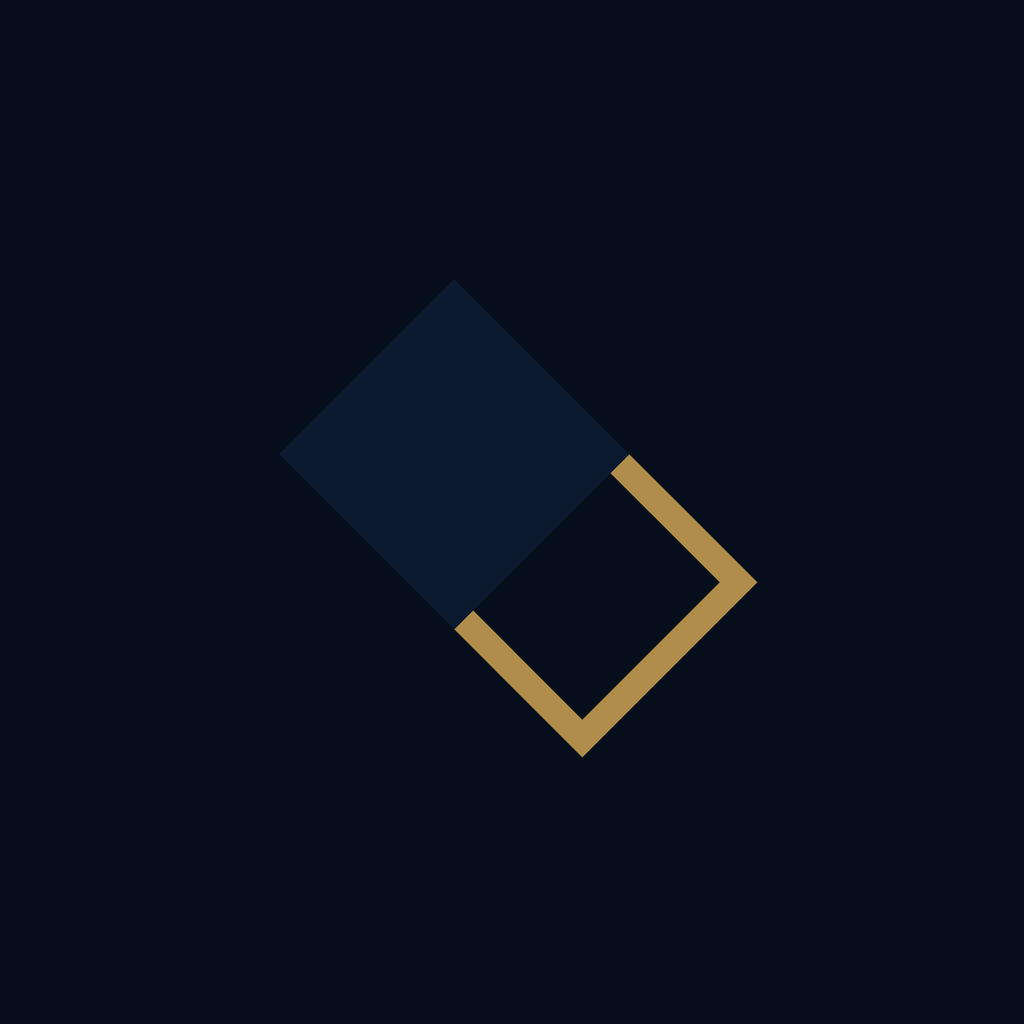
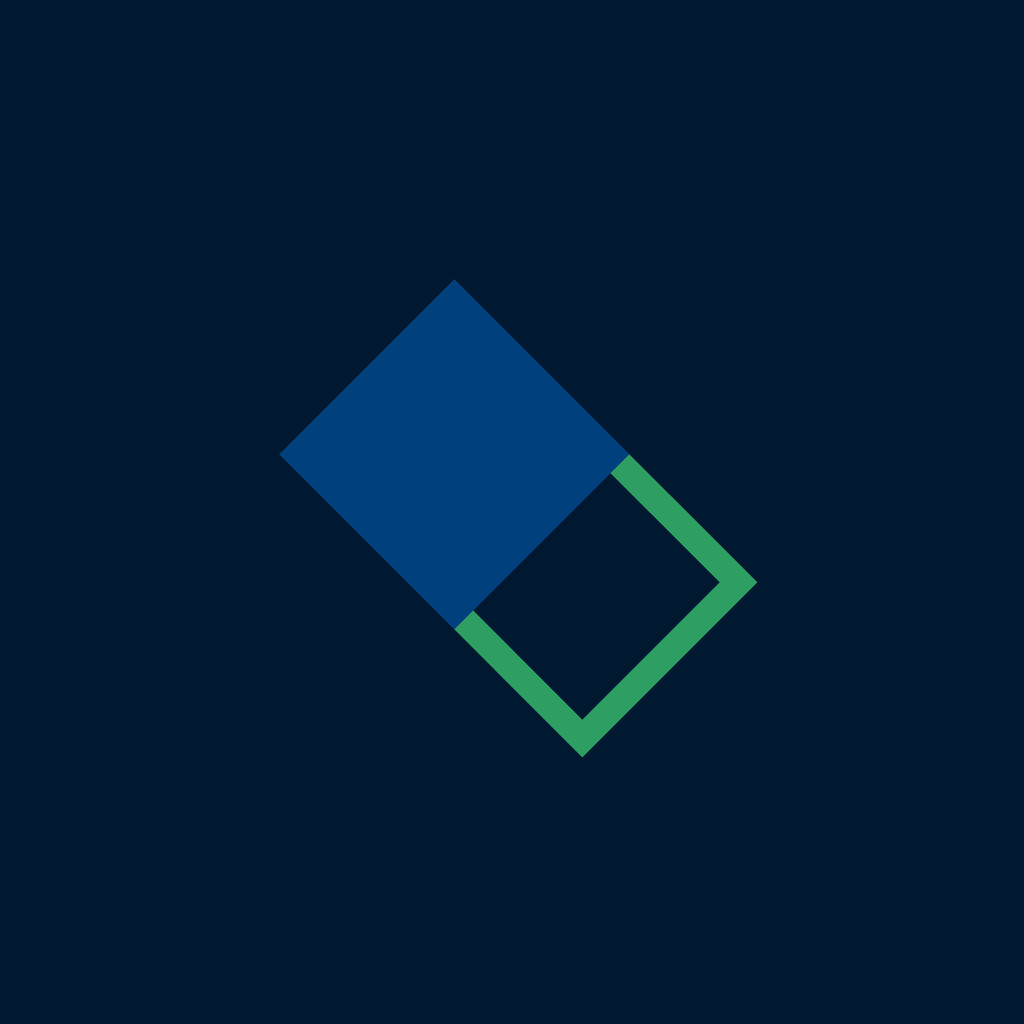
Rebrand to FundCo/CeF blue+green, drop equity %, Governance -> About Us
Per MD's review feedback:
- Recolor theme from navy/gold to a blue (FundCo) + green (Clean
  Energy Fund) combination -- mark shape unchanged, only the palette
  and all derived assets (favicon, apple-icon, OG image, logo lockups)
- Remove the 92.8% equity-stake figure from every public-facing
  instance (homepage, portfolio, about page, ticker) in favor of
  "majority equity stake" / "majority shareholder" language
- Rename Governance -> About Us (route, nav, footer, sitemap, and all
  internal cross-links)
- Replace "real estate infrastructure" with "sustainable
  infrastructure" everywhere it appeared
- Drop the "long-term value creation across West Africa rather than
  short-term trading gains" clause and the "Real Estate
  Infrastructure" pillar's West Africa claim
- Increase the header/footer logo size

Changed region(s): [[0.2812, 0.2812, 0.75, 0.75]]

diff --git a/src/app/page.tsx b/src/app/page.tsx
@@ -13,9 +13,9 @@ const PILLARS = [
   },
   {
     tag: "02",
-    title: "Real Estate Infrastructure",
+    title: "Sustainable Infrastructure",
     detail:
-      "Long-horizon exposure to real estate and infrastructure assets underpinning Nigeria's and West Africa's growth.",
+      "Long-horizon exposure to sustainable infrastructure assets underpinning Nigeria's growth.",
   },
   {
     tag: "03",
@@ -42,7 +42,7 @@ export default function Home() {
           <p className="mt-7 max-w-xl text-white/80 text-base sm:text-lg leading-relaxed">
             OneCap Investment Limited is a private investment and holding
             company deploying proprietary capital into high-impact
-            alternative assets, real estate infrastructure, and transition
+            alternative assets, sustainable infrastructure, and transition
             energy across Sub-Saharan Africa.
           </p>
           <div className="mt-10 flex flex-wrap gap-4">
@@ -73,9 +73,7 @@ export default function Home() {
           <p className="mt-4 text-text-secondary leading-relaxed">
             OneCap is a private, closely held investment and holding company
             incorporated in Nigeria. We deploy proprietary capital directly
-            and through majority-owned operating platforms, with a mandate
-            centred on long-term value creation across West Africa rather
-            than short-term trading gains.
+            and through majority-owned operating platforms.
           </p>
         </ScrollReveal>
 
@@ -107,7 +105,7 @@ export default function Home() {
               Major Institutional Shareholder in FundCo Capital Managers Limited
             </h2>
             <p className="text-white/75 leading-relaxed mb-6">
-              OneCap holds a 92.8% equity stake in FundCo Capital Managers
+              OneCap holds a majority equity stake in FundCo Capital Managers
               Limited, a Nigerian investment manager whose mandate is aligned
               with green and infrastructure-focused strategies. FundCo
               structures and manages regulated investment vehicles, including
@@ -130,9 +128,9 @@ export default function Home() {
               height={200}
               className="h-16 w-auto mb-6 object-contain"
             />
-            <p className="text-5xl font-bold text-brand mb-2">92.8%</p>
+            <p className="text-3xl sm:text-4xl font-bold text-brand mb-2">Majority Stake</p>
             <p className="text-sm text-white/60 uppercase tracking-wide">
-              Equity Stake Held by OneCap
+              Equity Held by OneCap
             </p>
           </div>
         </ScrollReveal>
@@ -152,10 +150,10 @@ export default function Home() {
             Companies and Allied Matters Act, 2020.
           </p>
           <Link
-            href="/governance"
+            href="/about-us"
             className="inline-block rounded-full border border-navy px-6 py-3 text-sm font-semibold text-navy hover:bg-navy hover:text-white transition-colors"
           >
-            Read Our Governance & Mandate
+            About Us & Mandate
           </Link>
         </ScrollReveal>
       </section>

diff --git a/src/app/about-us/page.tsx b/src/app/about-us/page.tsx
@@ -4,7 +4,7 @@ import ScrollReveal from "@/components/ScrollReveal";
 import JoinCta from "@/components/JoinCta";
 
 export const metadata: Metadata = {
-  title: "Governance",
+  title: "About Us",
   description:
     "Corporate facts, governance principles, and the investment mandate of OneCap Investment Limited (RC 1767172), a Nigerian private investment and holding company.",
 };
@@ -22,16 +22,16 @@ const FACTS = [
   { label: "Jurisdiction", value: "Federal Republic of Nigeria" },
   {
     label: "Principal Holding",
-    value: "FundCo Capital Managers Limited (92.8% equity stake)",
+    value: "FundCo Capital Managers Limited (majority equity stake)",
   },
 ];
 
-export default function Governance() {
+export default function AboutUs() {
   return (
     <>
       <PageHero
-        breadcrumb="Governance"
-        title="Governance"
+        breadcrumb="About Us"
+        title="About Us"
         subtitle="Corporate facts, governance principles, and investment mandate for OneCap Investment Limited."
       />
 
@@ -91,7 +91,7 @@ export default function Governance() {
           <div className="space-y-5 text-text-secondary leading-relaxed">
             <p>
               OneCap Investment Limited exists to deploy proprietary capital
-              into high-impact alternative assets, real estate
+              into high-impact alternative assets, sustainable
               infrastructure, and transition energy opportunities across
               Sub-Saharan Africa. As a private holding vehicle, OneCap does
               not raise capital from the public or market retail investment
@@ -99,7 +99,7 @@ export default function Governance() {
               basis, primarily through majority-owned operating platforms.
             </p>
             <p>
-              The firm's principal investment is its 92.8% equity stake in
+              The firm's principal investment is a majority equity stake in
               FundCo Capital Managers Limited, a Nigerian investment manager
               whose mandate centres on green and infrastructure-linked
               strategies. FundCo structures and manages regulated investment

diff --git a/src/app/portfolio/page.tsx b/src/app/portfolio/page.tsx
@@ -8,7 +8,7 @@ import JoinCta from "@/components/JoinCta";
 export const metadata: Metadata = {
   title: "Portfolio",
   description:
-    "OneCap Investment Limited's principal holding is a 92.8% equity stake in FundCo Capital Managers Limited, the SEC-authorised manager of the Housing Solution Fund and the Clean Energy Fund, with holdings across battery swapping, mini-grid power, solar, electric mobility, agriculture, and biogas.",
+    "OneCap Investment Limited's principal holding is a majority equity stake in FundCo Capital Managers Limited, the SEC-authorised manager of the Housing Solution Fund and the Clean Energy Fund, with holdings across battery swapping, mini-grid power, solar, electric mobility, agriculture, and biogas.",
 };
 
 const FUNDS = [
@@ -97,7 +97,7 @@ export default function Portfolio() {
           </div>
           <div>
             <p className="text-sm font-semibold uppercase tracking-[0.2em] text-brand mb-3">
-              92.8% Equity Stake &mdash; Principal Holding
+              Majority Equity Stake &mdash; Principal Holding
             </p>
             <h2 className="text-2xl sm:text-3xl font-bold mb-4">
               FundCo Capital Managers Limited
@@ -226,13 +226,13 @@ export default function Portfolio() {
             OneCap&rsquo;s investment horizon is structured around control and
             majority positions in platforms with durable, infrastructure-like
             cash flows &mdash; rather than short-dated trading strategies.
-            Read more about our governance and investment mandate.
+            Read more about our company and investment mandate.
           </p>
           <Link
-            href="/governance"
+            href="/about-us"
             className="inline-block rounded-full border border-navy px-6 py-3 text-sm font-semibold text-navy hover:bg-navy hover:text-white transition-colors"
           >
-            Governance & Mandate
+            About Us & Mandate
           </Link>
         </ScrollReveal>
       </section>

diff --git a/src/components/Footer.tsx b/src/components/Footer.tsx
@@ -29,13 +29,13 @@ export default function Footer() {
             alt="OneCap Investment Limited"
             width={1535}
             height={480}
-            className="h-10 w-auto"
+            className="h-14 w-auto"
           />
           <p className="mt-4 text-sm text-white/60 leading-relaxed max-w-xs">
             A Nigerian private investment and holding company deploying
-            proprietary capital into high-impact alternative assets, real
-            estate infrastructure, and transition energy across Sub-Saharan
-            Africa.
+            proprietary capital into high-impact alternative assets,
+            sustainable infrastructure, and transition energy across
+            Sub-Saharan Africa.
           </p>
           <div className="flex gap-3 mt-6">
             {SOCIALS.map((s) => (
@@ -61,7 +61,7 @@ export default function Footer() {
           </h3>
           <ul className="space-y-2.5 text-sm text-white/60">
             <li><Link href="/portfolio" className="hover:text-white transition-colors">Portfolio</Link></li>
-            <li><Link href="/governance" className="hover:text-white transition-colors">Governance</Link></li>
+            <li><Link href="/about-us" className="hover:text-white transition-colors">About Us</Link></li>
             <li><Link href="/contact" className="hover:text-white transition-colors">Contact</Link></li>
           </ul>
         </div>

diff --git a/src/app/layout.tsx b/src/app/layout.tsx
@@ -13,7 +13,7 @@ const inter = Inter({
 
 const siteUrl = "https://onecapinvestment.ng";
 const siteDescription =
-  "OneCap Investment Limited is a Nigerian private investment and holding company deploying proprietary capital into high-impact alternative assets, real estate infrastructure, and transition energy across Sub-Saharan Africa. Majority shareholder of FundCo Capital Managers Limited.";
+  "OneCap Investment Limited is a Nigerian private investment and holding company deploying proprietary capital into high-impact alternative assets, sustainable infrastructure, and transition energy across Sub-Saharan Africa. Majority shareholder of FundCo Capital Managers Limited.";
 
 export const metadata: Metadata = {
   metadataBase: new URL(siteUrl),

diff --git a/src/components/Header.tsx b/src/components/Header.tsx
@@ -6,7 +6,7 @@ import { useState } from "react";
 
 const NAV = [
   { label: "Portfolio", href: "/portfolio" },
-  { label: "Governance", href: "/governance" },
+  { label: "About Us", href: "/about-us" },
   { label: "Contact", href: "/contact" },
 ];
 
@@ -23,7 +23,7 @@ export default function Header() {
             width={1535}
             height={480}
             priority
-            className="h-8 w-auto sm:h-9"
+            className="h-10 w-auto sm:h-14"
           />
         </Link>
 

diff --git a/src/app/globals.css b/src/app/globals.css
@@ -4,15 +4,15 @@
   --background: #ffffff;
   --foreground: #10191f;
 
-  --color-brand: #b08d4a;
-  --color-brand-dark: #8c6f39;
-  --color-accent: #b08d4a;
-  --color-navy: #0c1a30;
+  --color-brand: #2f9e63;
+  --color-brand-dark: #1f7a4a;
+  --color-accent: #2f9e63;
+  --color-navy: #00417d;
   --color-text: #10191f;
   --color-text-secondary: #4c5b66;
   --color-surface: #f5f6f8;
   --color-border: #dde2e8;
-  --color-dark: #060e1b;
+  --color-dark: #001830;
 }
 
 @theme inline {

diff --git a/src/components/TickerBar.tsx b/src/components/TickerBar.tsx
@@ -1,7 +1,7 @@
 const ITEMS = [
   "RC 1767172",
   "Private Investment & Holding Company",
-  "92.8% Equity Stake in FundCo Capital Managers Limited",
+  "Majority Shareholder of FundCo Capital Managers Limited",
   "Aligned with the Clean Energy Fund & Housing Solution Fund",
   "Lekki, Lagos, Nigeria",
 ];

diff --git a/src/app/sitemap.ts b/src/app/sitemap.ts
@@ -19,7 +19,7 @@ export default function sitemap(): MetadataRoute.Sitemap {
       priority: 0.9,
     },
     {
-      url: `${baseUrl}/governance`,
+      url: `${baseUrl}/about-us`,
       lastModified: now,
       changeFrequency: "monthly",
       priority: 0.8,
